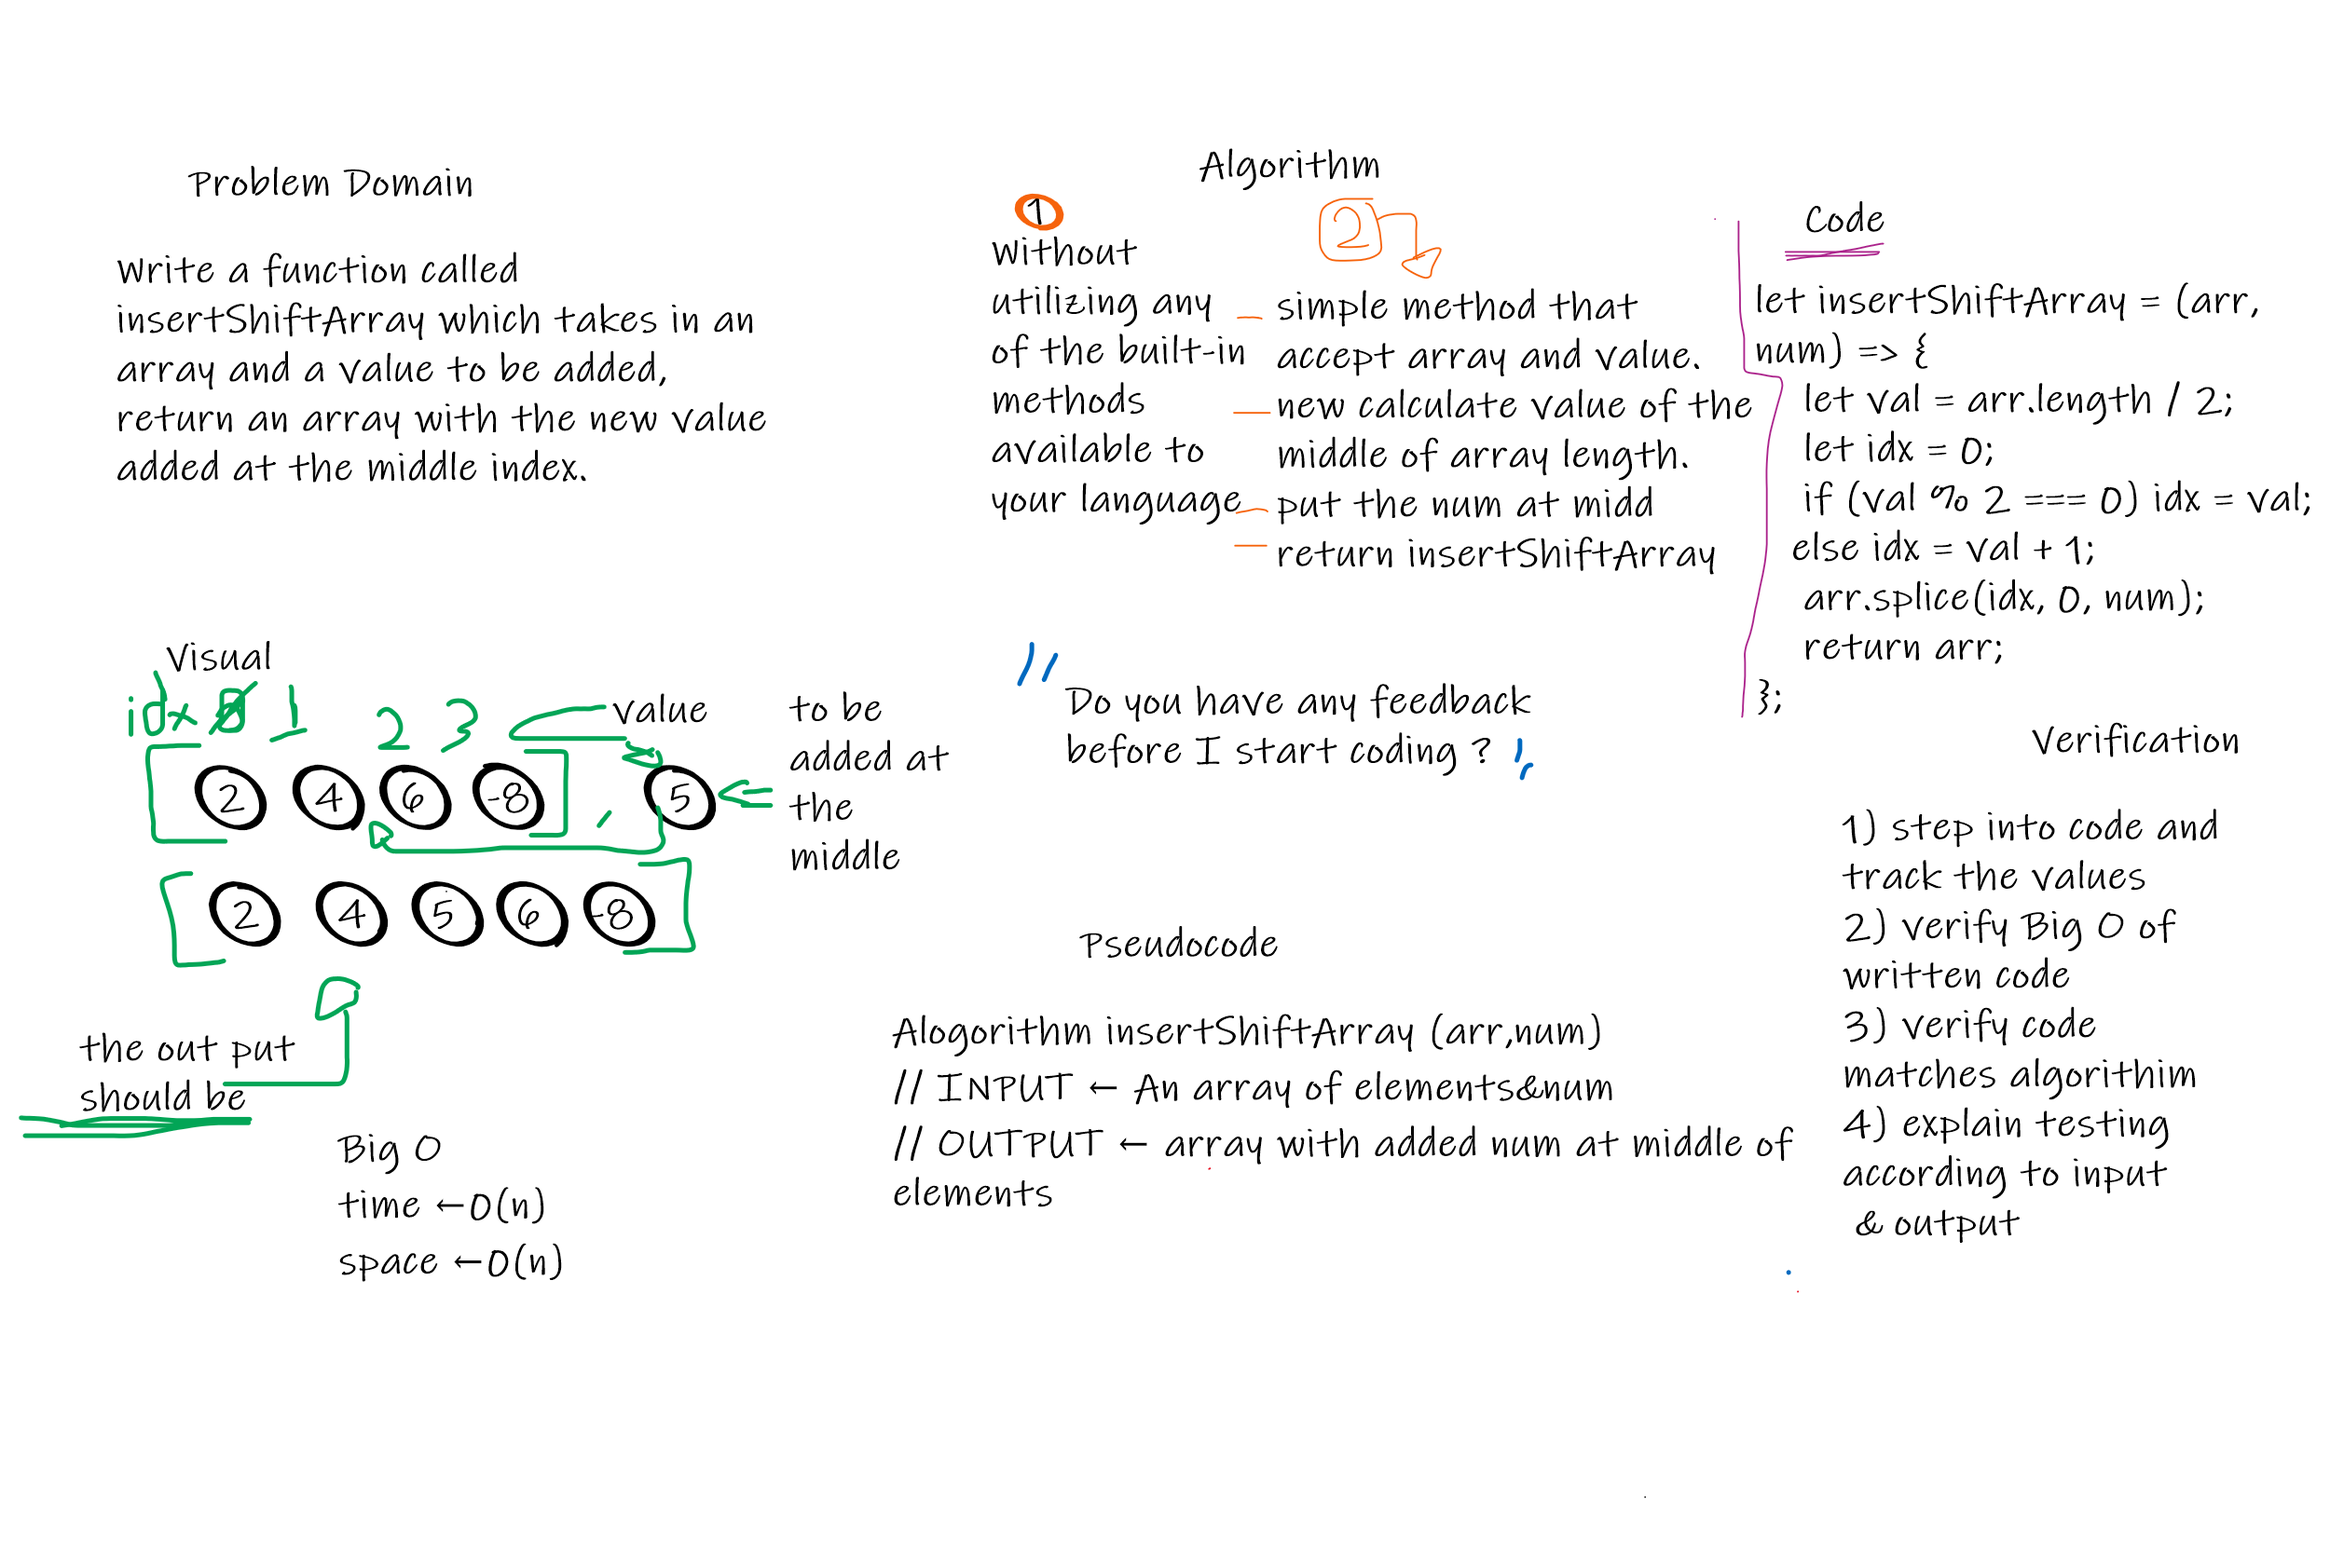
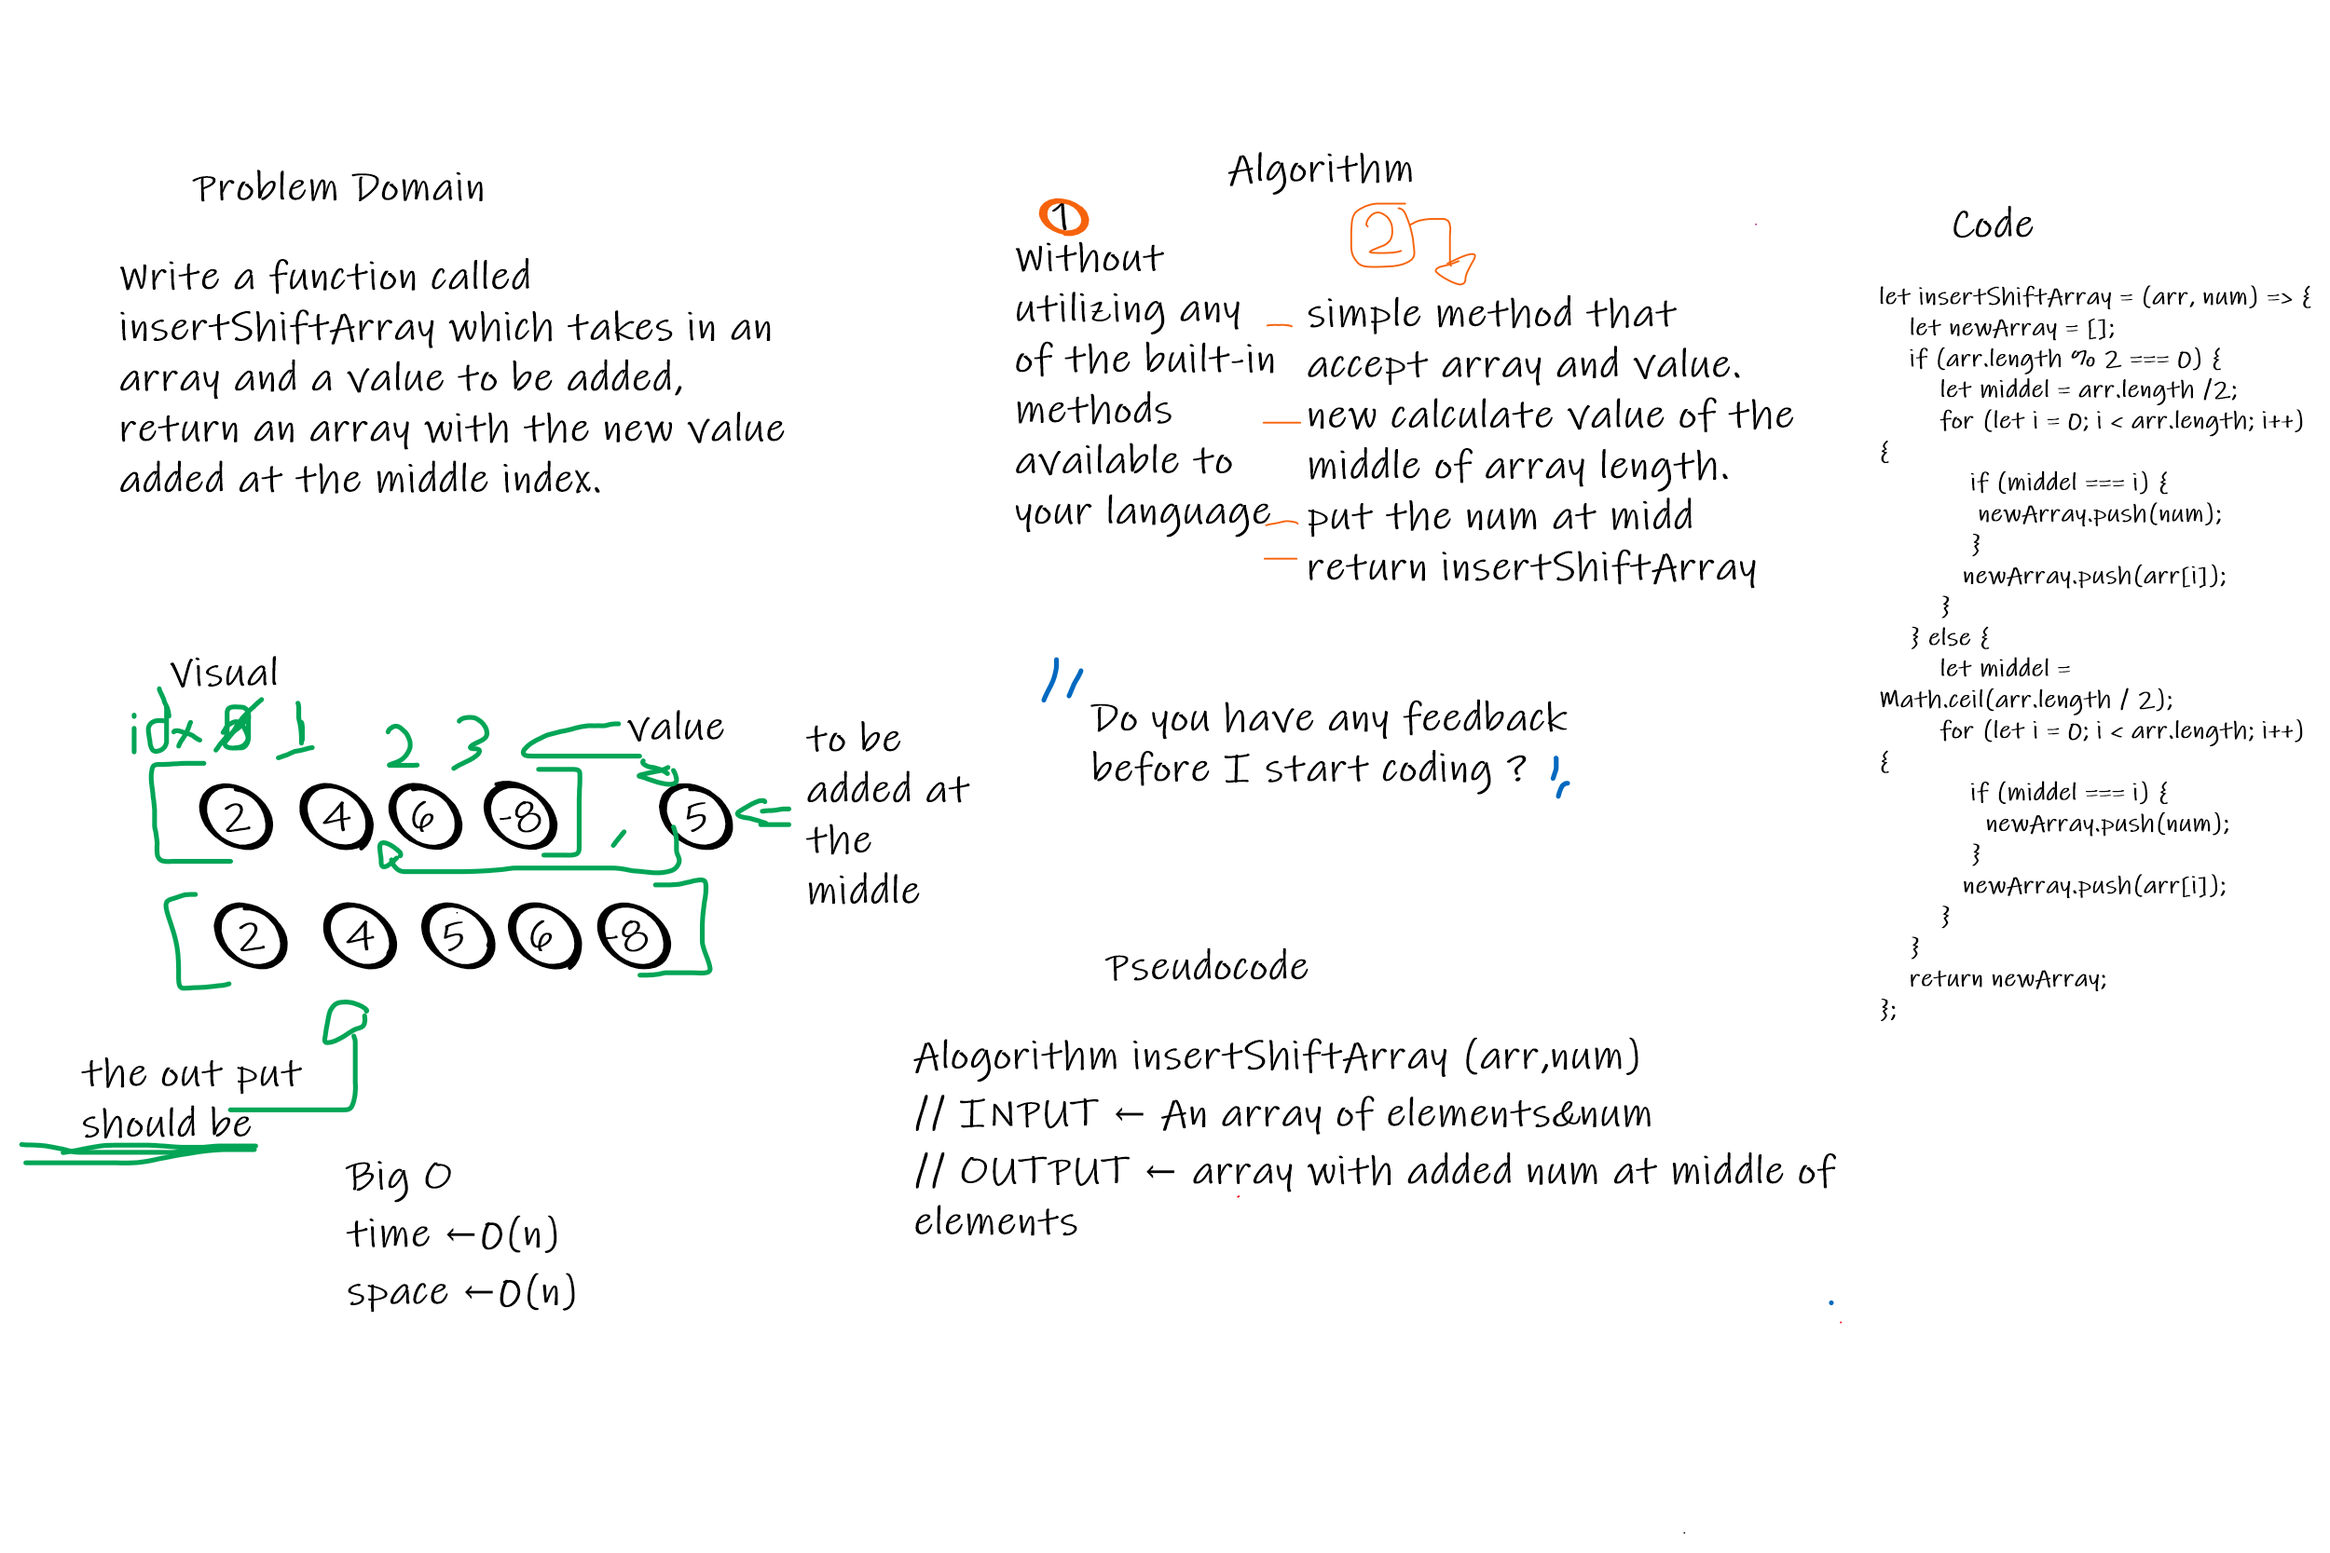
edit insert-shift-array

diff --git a/javascript/code-challenges/array-insert-shift/challenges-02.test.js b/javascript/code-challenges/array-insert-shift/challenges-02.test.js
@@ -24,15 +24,31 @@ Output
 
 let insertShiftArray = (arr, num) => {
 
-    let val = arr.length / 2;
-    let idx = 0;
-    if (val % 2 === 0) {
-        idx = val;
+    let newArray = [];
+
+    if (arr.length % 2 === 0) {
+        let middel = arr.length / 2;
+
+        for (let i = 0; i < arr.length; i++) {
+            if (middel === i) {
+                newArray.push(num);
+
+            }
+            newArray.push(arr[i]);
+
+        }
     } else {
-        idx = val + 1;
+        let middel = Math.ceil(arr.length / 2);
+        for (let i = 0; i < arr.length; i++) {
+            if (middel === i) {
+                newArray.push(num);
+
+            }
+            newArray.push(arr[i]);
+
+        }
     }
-    arr.splice(idx, 0, num);
-    return arr;
+    return newArray;
 };
 
 /* ------------------------------------------------------------------------------------------------
@@ -42,12 +58,12 @@ All the code below will verify that your functions are working to solve the chal
 
 DO NOT CHANGE any of the below code.
 
-Run your tests from the console: jest challenges-01.test.js
+Run your tests from the console: jest challenges-02.test.js
 
 ------------------------------------------------------------------------------------------------ */
 
-describe('Testing challenge 1', () => {
-    it('It returns an array of numbers reversed', () => {
+describe('Testing challenge 2', () => {
+    it('It returns an array added number on middle of it', () => {
         expect(insertShiftArray([2, 4, 6, -8], 5)).toStrictEqual([2, 4, 5, 6, -8]);
         expect(insertShiftArray([42, 8, 15, 23, 42], 16)).toStrictEqual([42, 8, 15, 16, 23, 42]);
     });

diff --git a/javascript/code-challenges/array-insert-shift/README.md b/javascript/code-challenges/array-insert-shift/README.md
@@ -1,4 +1,4 @@
-# Reverse an Array
+# insert Shift Array
 
 <!-- Description of the challenge -->
 
@@ -14,4 +14,4 @@ Write a function called `insertShiftArray` which takes in an array and a value t
 
 <!-- What approach did you take? Discuss Why. What is the Big O space/time for this approach? -->
 
-Using simple function that take array and number put the num at middle of tha array by using splic array method.
+Using simple function that take array and number put the num at middle of tha array.
